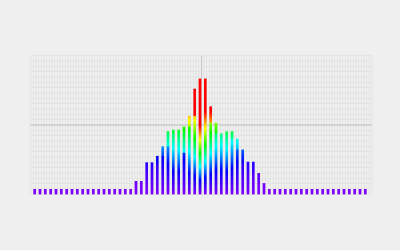
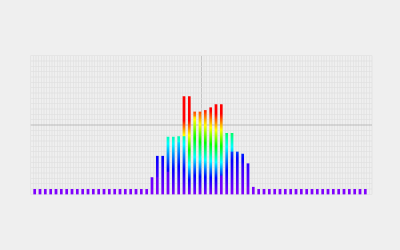
fix: :bug: fix mediaDevices has no screenshot

Changed region(s): [[0.39, 0.308, 0.69, 0.756], [0.33, 0.644, 0.39, 0.756]]

diff --git a/src/canvas/mediaDevices.html b/src/canvas/mediaDevices.html
@@ -2,138 +2,146 @@
  * @Author: wuyifan0203 1208097313@qq.com
  * @Date: 2024-10-25 16:44:06
  * @LastEditors: wuyifan0203 1208097313@qq.com
- * @LastEditTime: 2024-10-25 17:00:13
+ * @LastEditTime: 2024-10-28 09:47:05
  * @FilePath: \threejs-demo\src\canvas\mediaDevices.html
  * Copyright (c) 2024 by wuyifan email: 1208097313@qq.com, All Rights Reserved.
 -->
 <!DOCTYPE html>
 <html lang="zh">
-<head>
-    <meta charset="UTF-8">
+  <head>
+    <meta charset="UTF-8" />
     <title>Microphone visualization</title>
     <style>
-        *{
-            margin: 0;
-            padding: 0;
-        }
-        canvas {
-            width: 99vw;
-            height: 99vh;
-        }
+      * {
+        margin: 0;
+        padding: 0;
+      }
+      canvas {
+        width: 99vw;
+        height: 99vh;
+      }
     </style>
-</head>
-<body>
+  </head>
+  <body>
     <canvas id="canvas"></canvas>
     <script>
-        // 获取 Canvas 元素和绘图上下文
-        const canvas = document.getElementById('canvas');
-        const canvasCtx = canvas.getContext('2d');
+      // 获取 Canvas 元素和绘图上下文
+      const canvas = document.getElementById("canvas");
+      const canvasCtx = canvas.getContext("2d");
 
-        // 设置 Canvas 大小
+      // 设置 Canvas 大小
+      canvas.width = window.innerWidth * 0.99;
+      canvas.height = window.innerHeight * 0.99;
+
+      const title = "Microphone visualization";
+
+      canvasCtx.fillStyle = "rgb(200, 200, 200)";
+      canvasCtx.fillRect(0, 0, canvas.width, canvas.height);
+
+      canvasCtx.lineWidth = 2;
+      canvasCtx.strokeStyle = "rgb(0, 0, 0)";
+
+      canvasCtx.beginPath();
+      canvasCtx.font = `35px Arial`;
+      canvasCtx.fillStyle = "rgba(0,0,0,0.5)";
+      const { width, height } = canvasCtx.measureText(title);
+
+      canvasCtx.fillText(title, window.innerWidth / 2 - width / 2, 35);
+
+      const sliceWidth = (canvas.width * 1.0) / 1024;
+      let x = 0;
+
+      const defaultDataArray = new Array(1024).fill(125);
+
+      for (let i = 0; i < 1024; i++) {
+        const v = defaultDataArray[i] / 128.0;
+        const y = (v * canvas.height) / 2;
+        if (i === 0) {
+          canvasCtx.moveTo(x, y);
+        } else {
+          canvasCtx.lineTo(x, y);
+        }
+        x += sliceWidth;
+      }
+
+      canvasCtx.lineTo(canvas.width, canvas.height / 2);
+      canvasCtx.stroke();
+
+      window.addEventListener("resize", function () {
         canvas.width = window.innerWidth * 0.99;
         canvas.height = window.innerHeight * 0.99;
+      });
 
-        const title = 'Microphone visualization';
-
-        canvasCtx.fillStyle = 'rgb(200, 200, 200)';
-        canvasCtx.fillRect(0, 0, canvas.width, canvas.height);
-
-        canvasCtx.lineWidth = 2;
-        canvasCtx.strokeStyle = 'rgb(0, 0, 0)';
-
-        canvasCtx.beginPath();
-        canvasCtx.font = `35px Arial`;
-        canvasCtx.fillStyle = "rgba(0,0,0,0.5)";
-        const { width, height } = canvasCtx.measureText(title);
-                        
-        canvasCtx.fillText(title, window.innerWidth / 2 - width / 2, 35);
-
-        const sliceWidth = canvas.width * 1.0 / 1024;
-        let x = 0;
-
-        const defaultDataArray = new Array(1024).fill(125);
-        
-        for (let i = 0; i < 1024; i++) {
-            const v = defaultDataArray[i] / 128.0;
-            const y = v * canvas.height /2;
-            if (i === 0) {
-                canvasCtx.moveTo(x, y);
-            } else {
-                canvasCtx.lineTo(x, y);
-            }
-            x += sliceWidth;
-        }
-
-        canvasCtx.lineTo(canvas.width, canvas.height / 2);
-        canvasCtx.stroke();
-
+      if (!window.TEST) {
         // 检查浏览器是否支持 getUserMedia
         if (navigator.mediaDevices && navigator.mediaDevices.getUserMedia) {
-            const constraints = { audio: true };
+          const constraints = { audio: true };
 
-            navigator.mediaDevices.getUserMedia(constraints)
-                .then(function(stream) {
-                    const audioContext = new (window.AudioContext || window.webkitAudioContext)();
-                    const source = audioContext.createMediaStreamSource(stream);
+          navigator.mediaDevices
+            .getUserMedia(constraints)
+            .then(function (stream) {
+              const audioContext = new (window.AudioContext ||
+                window.webkitAudioContext)();
+              const source = audioContext.createMediaStreamSource(stream);
 
-                    const analyser = audioContext.createAnalyser();
-                    analyser.fftSize = 2048;
-                    const bufferLength = analyser.fftSize;
-                    const dataArray = new Uint8Array(bufferLength);
+              const analyser = audioContext.createAnalyser();
+              analyser.fftSize = 2048;
+              const bufferLength = analyser.fftSize;
+              const dataArray = new Uint8Array(bufferLength);
 
-                    source.connect(analyser);
+              source.connect(analyser);
 
-                    function draw() {
-                        requestAnimationFrame(draw);
+              function draw() {
+                requestAnimationFrame(draw);
 
-                        analyser.getByteTimeDomainData(dataArray);
+                analyser.getByteTimeDomainData(dataArray);
 
-                        canvasCtx.fillStyle = 'rgb(200, 200, 200)';
-                        canvasCtx.fillRect(0, 0, canvas.width, canvas.height);
+                canvasCtx.fillStyle = "rgb(200, 200, 200)";
+                canvasCtx.fillRect(0, 0, canvas.width, canvas.height);
 
-                        canvasCtx.lineWidth = 2;
-                        canvasCtx.strokeStyle = 'rgb(0, 0, 0)';
+                canvasCtx.lineWidth = 2;
+                canvasCtx.strokeStyle = "rgb(0, 0, 0)";
 
-                        canvasCtx.beginPath();
-                        canvasCtx.font = `35px Arial`;
-                        canvasCtx.fillStyle = "rgba(0,0,0,0.5)";
-                        const { width, height } = canvasCtx.measureText(title);
-                        
-                        canvasCtx.fillText(title, window.innerWidth / 2 - width / 2, 35);
+                canvasCtx.beginPath();
+                canvasCtx.font = `35px Arial`;
+                canvasCtx.fillStyle = "rgba(0,0,0,0.5)";
+                const { width, height } = canvasCtx.measureText(title);
 
-                        const sliceWidth = canvas.width * 1.0 / bufferLength;
-                        let x = 0;
-                        
-                        for (let i = 0; i < bufferLength; i++) {
-                            const v = dataArray[i] / 128.0;
-                            const y = v * canvas.height / 2;
+                canvasCtx.fillText(
+                  title,
+                  window.innerWidth / 2 - width / 2,
+                  35
+                );
 
-                            if (i === 0) {
-                                canvasCtx.moveTo(x, y);
-                            } else {
-                                canvasCtx.lineTo(x, y);
-                            }
+                const sliceWidth = (canvas.width * 1.0) / bufferLength;
+                let x = 0;
 
-                            x += sliceWidth;
-                        }
+                for (let i = 0; i < bufferLength; i++) {
+                  const v = dataArray[i] / 128.0;
+                  const y = (v * canvas.height) / 2;
 
-                        canvasCtx.lineTo(canvas.width, canvas.height / 2);
-                        canvasCtx.stroke();
-                    }
+                  if (i === 0) {
+                    canvasCtx.moveTo(x, y);
+                  } else {
+                    canvasCtx.lineTo(x, y);
+                  }
 
-                    draw();
-                })
-                .catch(function(err) {
-                    console.error('获取音频失败：', err);
-                });
+                  x += sliceWidth;
+                }
+
+                canvasCtx.lineTo(canvas.width, canvas.height / 2);
+                canvasCtx.stroke();
+              }
+
+              draw();
+            })
+            .catch(function (err) {
+              console.error("获取音频失败：", err);
+            });
         } else {
-            alert('您的浏览器不支持访问麦克风。');
+          alert("您的浏览器不支持访问麦克风。");
         }
-
-        window.addEventListener('resize', function() {
-            canvas.width = window.innerWidth * 0.99;
-            canvas.height = window.innerHeight * 0.99;
-        });
+      }
     </script>
-</body>
+  </body>
 </html>

diff --git a/bin/cleanPage.js b/bin/cleanPage.js
@@ -1,9 +1,9 @@
 /*
  * @Author: wuyifan0203 1208097313@qq.com
  * @Date: 2024-07-13 15:31:21
- * @LastEditors: Yifan Wu 1208097313@qq.com
- * @LastEditTime: 2024-07-13 15:41:44
- * @FilePath: /threejs-demo/bin/cleanPage.js
+ * @LastEditors: wuyifan0203 1208097313@qq.com
+ * @LastEditTime: 2024-10-28 09:48:52
+ * @FilePath: \threejs-demo\bin\cleanPage.js
  * Copyright (c) 2024 by wuyifan email: 1208097313@qq.com, All Rights Reserved.
  */
 ( function () {
@@ -23,4 +23,6 @@
 			break;
 		}
 	}
+
+	window.TEST = true;
 }() );

diff --git a/bin/screenshot.js b/bin/screenshot.js
@@ -2,7 +2,7 @@
  * @Author: wuyifan0203 1208097313@qq.com
  * @Date: 2024-07-09 20:33:06
  * @LastEditors: wuyifan0203 1208097313@qq.com
- * @LastEditTime: 2024-10-25 18:22:34
+ * @LastEditTime: 2024-10-28 09:49:28
  * @FilePath: \threejs-demo\bin\screenshot.js
  * Copyright (c) 2024 by wuyifan email: 1208097313@qq.com, All Rights Reserved.
  */
@@ -380,4 +380,4 @@ function close() {
   process.exit(1);
 }
 
-const exceptionURLs = ['/canvas/mediaDevices.html'];
+const exceptionURLs = [];
